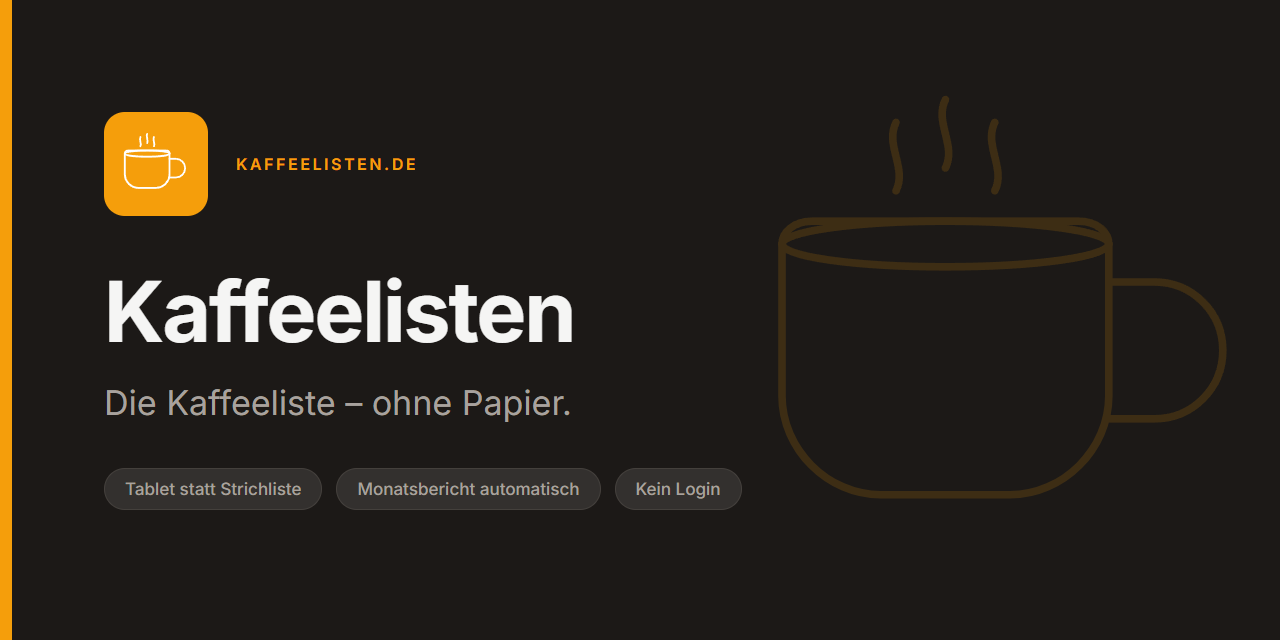
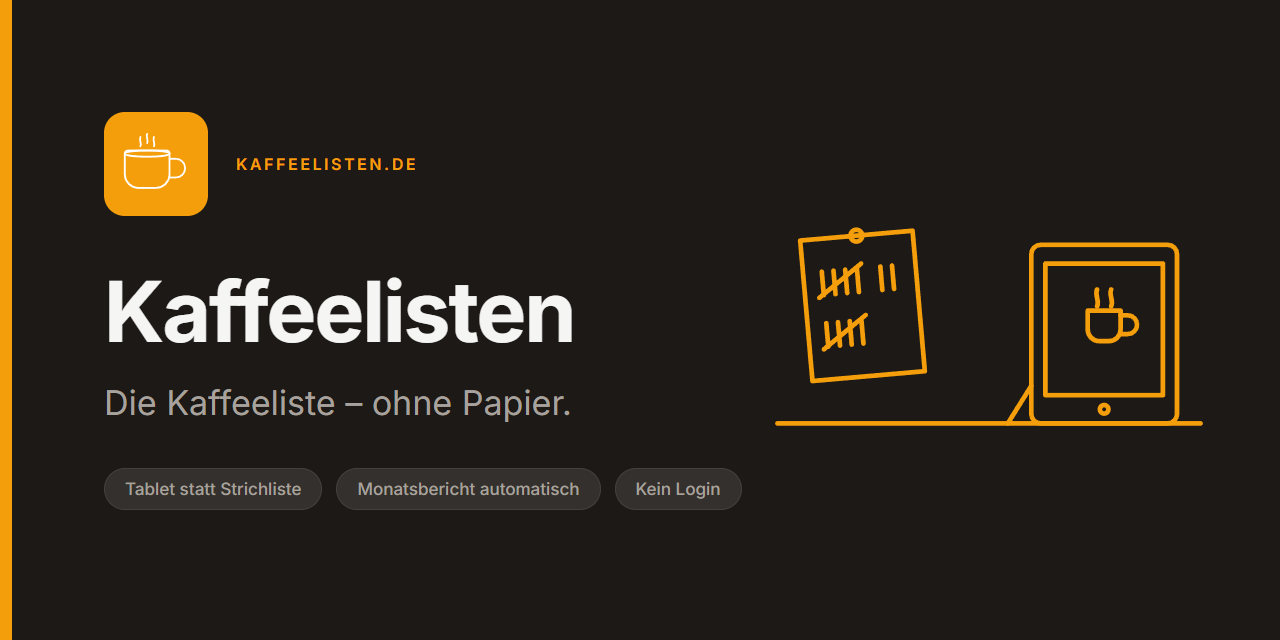
feat(brand): add the tally-to-tablet illustration and document the line system

Changed region(s): [[0.5938, 0.1562, 0.9688, 0.7188], [0.625, 0.7188, 0.8438, 0.7812]]

diff --git a/brand/BRAND.md b/brand/BRAND.md
@@ -32,6 +32,7 @@ sidebar and the social card are literally the same drawing.
 | `logo/logo-mono.svg` | Single colour, outlined square. For one-colour printing and stamps. |
 | `logo/logo-itc1.svg`, `logo-wald.svg`, `logo-imperium.svg` | Palette variants. |
 | `logo/avatar-512.png` | 512×512 raster. The organisation avatar. |
+| `illustrations/tally-to-tablet.svg` | **The brand illustration.** The paper list and the tablet that replaces it. |
 | `social/social-preview.png`, `social-preview-dark.png` | 1280×640, GitHub's 2:1 social preview. |
 
 **The square is `rx="40"` on a 200×200 viewBox** — a 20% corner radius. Keep that ratio at every
@@ -141,16 +142,44 @@ Lines that are approved and in use: *Die Kaffeeliste – ohne Papier.* · *Table
 
 ## Illustration
 
-**One-line SVG, single weight, `currentColor`.** The icon set lives in
-`apps/web/public/assets/icons/` (27 icons) and the illustrations in
+**The brand is a vector line system, not a picture library.** Everything is drawn from the same
+construction, so the logo, a 24px icon and a full illustration read as one hand:
+
+```
+fill="none"  stroke="currentColor"  stroke-linecap="round"  stroke-linejoin="round"
+```
+
+| Scale | viewBox | stroke-width |
+|---|---|---|
+| Icon | `0 0 24 24` | `1.5` |
+| Illustration | `0 0 200 N` | `2` |
+| Logo mark, inside the square | `0 0 200 200` | `3.5` |
+
+The icon set lives in `apps/web/public/assets/icons/` (27 icons) and the app's illustrations in
 `apps/web/public/assets/illustrations/` — `beans-trio`, `campus-skyline`, `cappuccino-white`,
-`empty-cup`, `pine-silhouette`.
+`empty-cup`, `pine-silhouette`. The brand illustration here is built to the same rules.
+
+**`currentColor` is the point.** An illustration inherits the text colour of wherever it sits, so
+one file works in light mode, dark mode, at the accent colour and in muted grey. An `<img>` of the
+same SVG cannot do this — inline it, or set `color` on a wrapper.
 
 Coffee motifs as playful detail; Bavarian Wald as atmosphere, abstract rather than touristic. No
 rustic textures, no photographic imagery, no stock illustration.
 
 An illustration never carries text. Every name and number stays real text, so it stays
 translatable, selectable and accessible.
+
+### Adding one
+
+Author the SVG by hand against the table above, from simple primitives — `path`, `rect`,
+`ellipse`, `circle` — on a round-numbered grid. Then look at it at **three sizes and two themes**
+before committing; `brand/render.mjs` is a working example of how to proof it.
+
+**Do not generate illustrations for this system with an image model.** A raster cannot inherit
+`currentColor`, cannot scale to a 24px icon, and will not hold a 2px stroke — in practice the
+model returns filled flat shapes, which is a different language from this one. Image generation
+is the right tool for a portfolio banner or a textured scene; it is the wrong tool for extending a
+line system that has to theme and scale.
 
 ---
 
